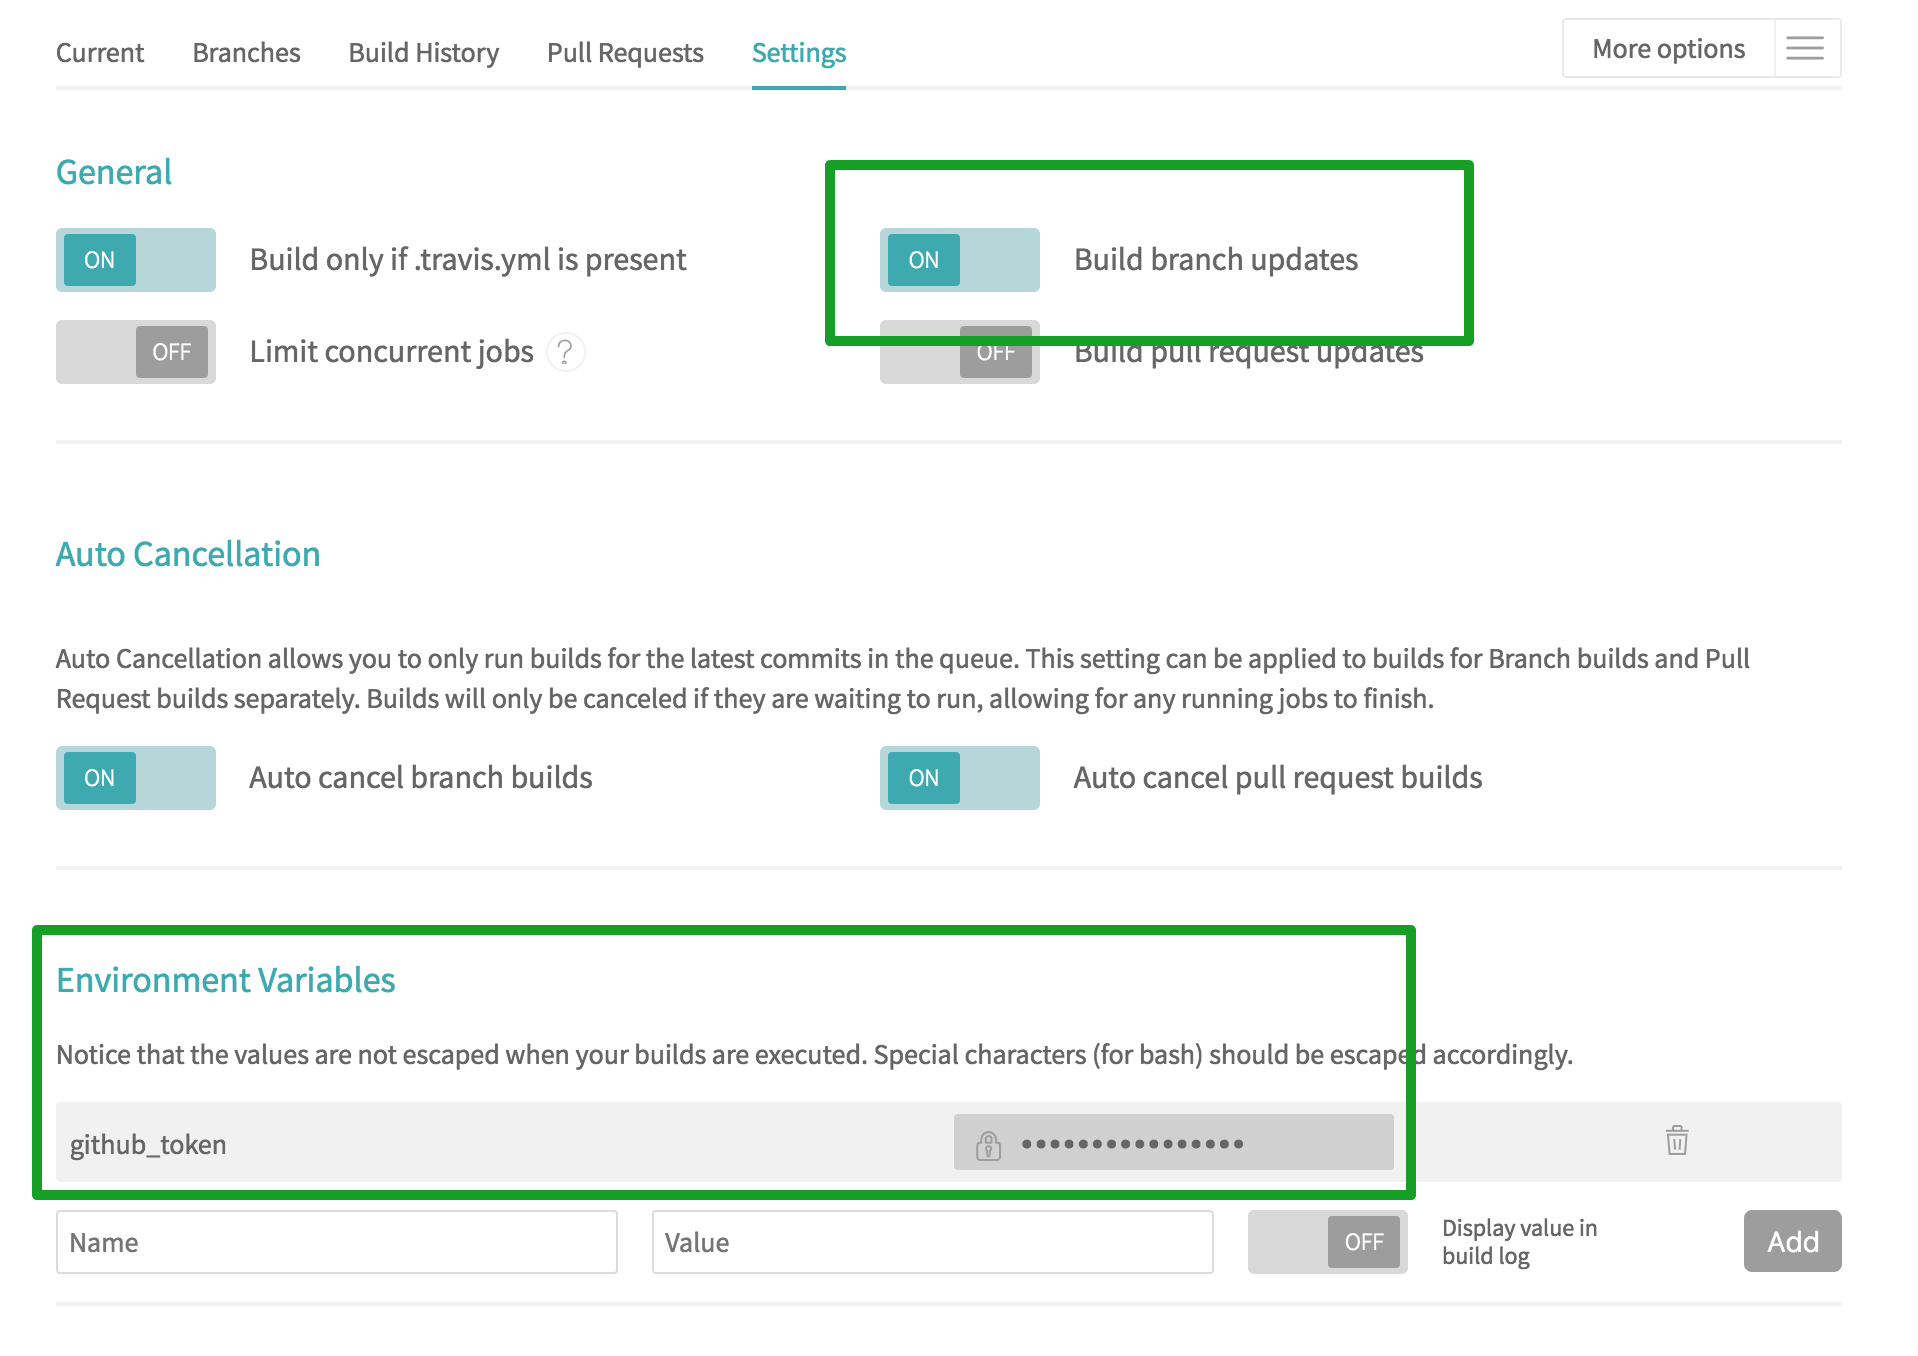
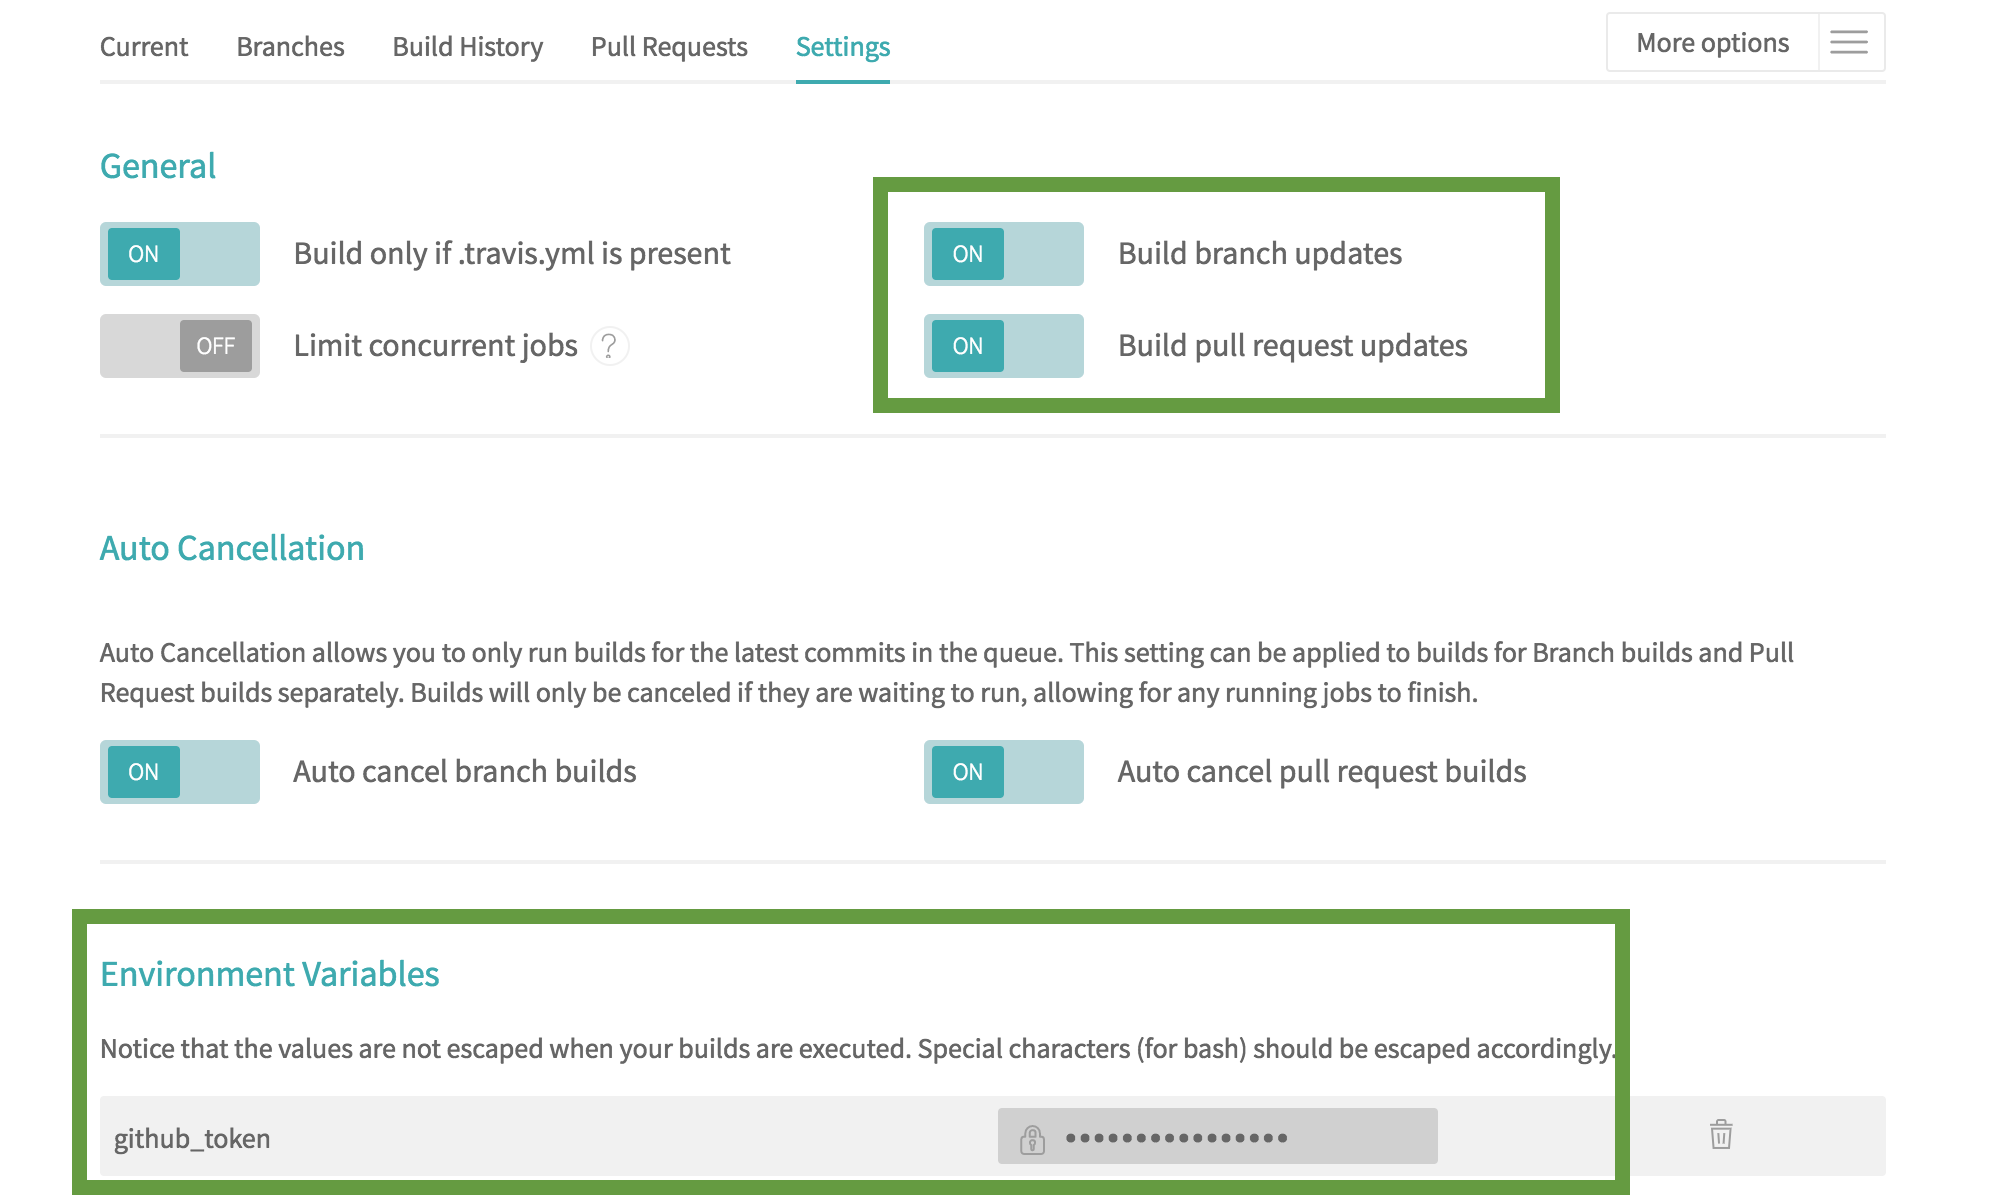
update docs for pull request event

diff --git a/README.md b/README.md
@@ -55,7 +55,7 @@ Add the path and threshold in your `package.json`
 
 Works only with [Travis CI](https://travis-ci.org) for now.
 
-- Enable `Build branch updates` on travis-ci. ([screenshot](https://raw.githubusercontent.com/siddharthkp/bundlesize/master/art/travis.png))
+- Enable `Build branch updates` and `Build pull request updates` on travis-ci. ([screenshot](https://raw.githubusercontent.com/siddharthkp/bundlesize/master/art/travis.png))
 - [Authorize `bundlesize` for status access](https://github.com/login/oauth/authorize?scope=repo%3Astatus&client_id=6756cb03a8d6528aca5a), copy the token provided.
 - Add this token as `github_token` as environment parameter in travis settings
 
